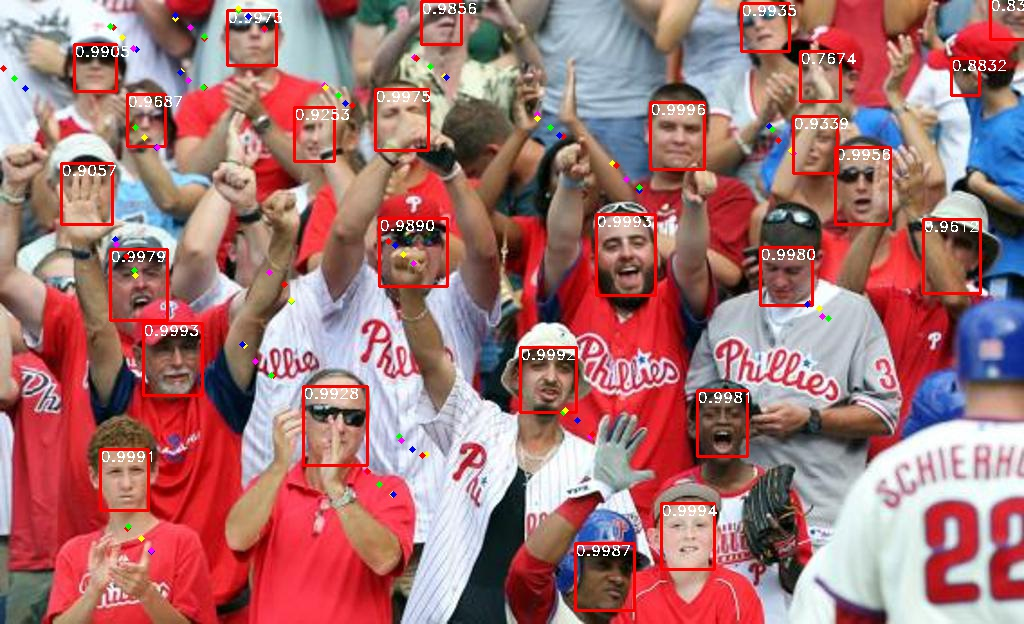
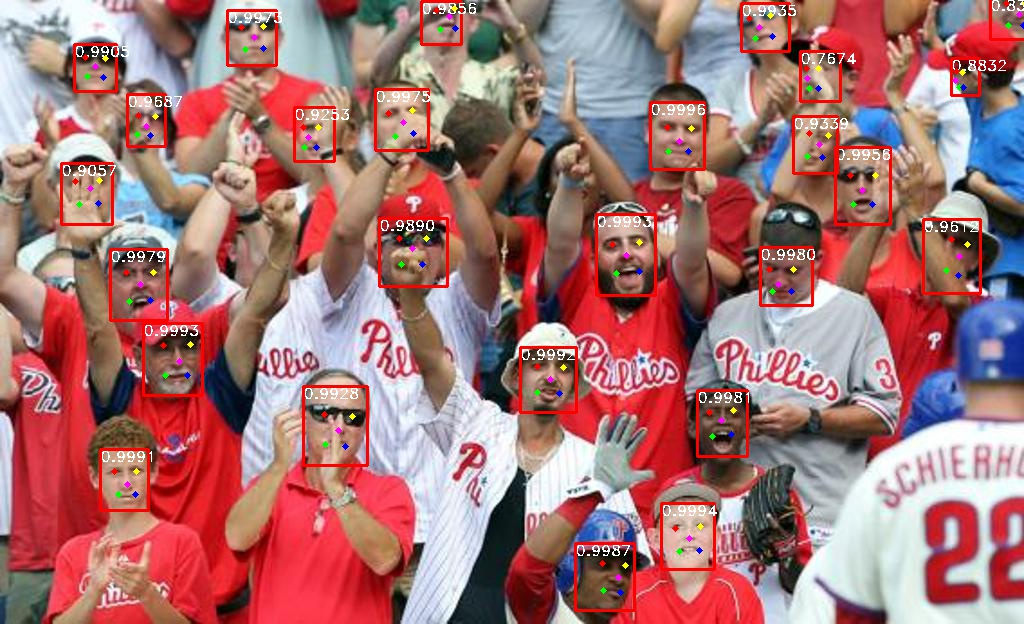
update

diff --git a/demo.py b/demo.py
@@ -1,13 +1,13 @@
 import time
 
-import cv2
+import cv2 as cv
 
 from retinaface.detector import detect_faces
 
 if __name__ == '__main__':
     # testing begin
     image_path = "images/test.jpg"
-    img_raw = cv2.imread(image_path, cv2.IMREAD_COLOR)
+    img_raw = cv.imread(image_path, cv.IMREAD_COLOR)
 
     start = time.time()
     bboxes, landmarks = detect_faces(img_raw)
@@ -23,21 +23,21 @@ if __name__ == '__main__':
         b = bboxes[i]
         text = "{:.4f}".format(b[4])
         b = list(map(int, b))
-        cv2.rectangle(img_raw, (b[0], b[1]), (b[2], b[3]), (0, 0, 255), 2)
+        cv.rectangle(img_raw, (b[0], b[1]), (b[2], b[3]), (0, 0, 255), 2)
         cx = b[0]
         cy = b[1] + 12
-        cv2.putText(img_raw, text, (cx, cy),
-                    cv2.FONT_HERSHEY_DUPLEX, 0.5, (255, 255, 255))
+        cv.putText(img_raw, text, (cx, cy),
+                   cv.FONT_HERSHEY_DUPLEX, 0.5, (255, 255, 255))
 
         # landms
         landms = landmarks[i]
-        cv2.circle(img_raw, (landms[0], landms[1]), 1, (0, 0, 255), 4)
-        cv2.circle(img_raw, (landms[2], landms[3]), 1, (0, 255, 255), 4)
-        cv2.circle(img_raw, (landms[4], landms[5]), 1, (255, 0, 255), 4)
-        cv2.circle(img_raw, (landms[6], landms[7]), 1, (0, 255, 0), 4)
-        cv2.circle(img_raw, (landms[8], landms[9]), 1, (255, 0, 0), 4)
+        cv.circle(img_raw, (landms[0], landms[5]), 1, (0, 0, 255), 4)
+        cv.circle(img_raw, (landms[1], landms[6]), 1, (0, 255, 255), 4)
+        cv.circle(img_raw, (landms[2], landms[7]), 1, (255, 0, 255), 4)
+        cv.circle(img_raw, (landms[3], landms[8]), 1, (0, 255, 0), 4)
+        cv.circle(img_raw, (landms[4], landms[9]), 1, (255, 0, 0), 4)
     # save image
 
-    cv2.imwrite('images/result.jpg', img_raw)
-    cv2.imshow('image', img_raw)
-    cv2.waitKey(0)
+    # cv.imwrite('images/result.jpg', img_raw)
+    cv.imshow('image', img_raw)
+    cv.waitKey(0)

diff --git a/retinaface/detector.py b/retinaface/detector.py
@@ -70,10 +70,13 @@ def detect_faces(img_raw, confidence_threshold=0.6, top_k=5000, nms_threshold=0.
     # keep top-K faster NMS
     dets = dets[:keep_top_k, :]
     landms = landms[:keep_top_k, :]
-
+    print(landms.shape)
     landms = landms.reshape((-1, 5, 2))
-    landms = landms.transpose()
-    landms = landms.reshape((-1, 10,))
+    print(landms.shape)
+    landms = landms.transpose((0, 2, 1))
+    print(landms.shape)
+    landms = landms.reshape(-1, 10,)
+    print(landms.shape)
 
     # scores = dets[:, 4]
     # bounding_boxes = dets[:, :4]

diff --git a/align.py b/align.py
@@ -1,0 +1,18 @@
+import os
+import cv2 as cv
+from retinaface.detector import detect_faces
+
+if __name__ == '__main__':
+    folder = 'data/Aaron Eckhart'
+    files = [f for f in os.listdir(folder) if f.endswith('.jpg')]
+
+    for file in files:
+        filename = os.path.join(folder, file)
+        # print(filename)
+        img = cv.imread(filename)
+        if img is not None:
+            bboxes, landmarks = detect_faces(img)
+
+
+
+    print('Completed!')
